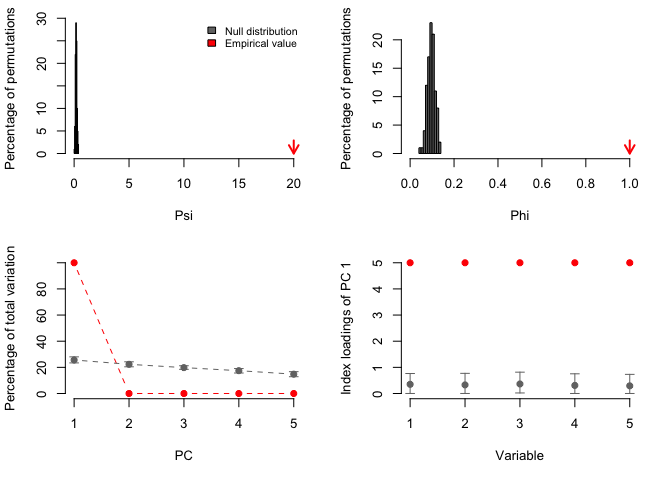
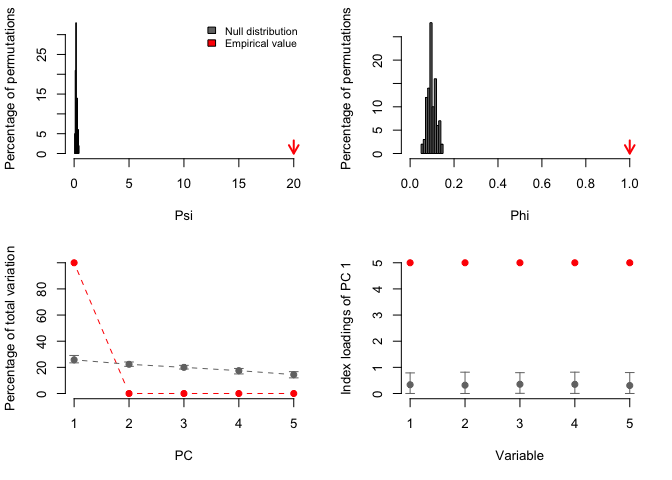
new commit

diff --git a/README.md b/README.md
@@ -24,7 +24,7 @@ statistics based on bootstrap replicates.
 ## Installation
 
 You can install the released and the development versions from
-[GitHub](https://github.com/) with:
+\[GitHub\] (<https://github.com/>) with:
 
 ``` r
 # install.packages("devtools")
@@ -52,8 +52,8 @@ result<-PCAtest(ex0, 100, 100, 0.05, varcorr=FALSE, counter=FALSE, plot=TRUE)
 #> 100 bootstrap replicates, 100 random permutations
 #> ========================================================
 #> 
-#> Empirical Psi = 0.1691, Max null Psi = 0.4490, Min null Psi = 0.0747, p-value = 0.66
-#> Empirical Phi = 0.0920, Max null Phi = 0.1498, Min null Phi = 0.0611, p-value = 0.66
+#> Empirical Psi = 0.1691, Max null Psi = 0.4298, Min null Psi = 0.0429, p-value = 0.61
+#> Empirical Phi = 0.0920, Max null Phi = 0.1466, Min null Phi = 0.0463, p-value = 0.61
 #> 
 #> PCA is not significant!
 ```
@@ -78,16 +78,16 @@ result<-PCAtest(ex05, 100, 100, 0.05, varcorr=FALSE, counter=FALSE, plot=TRUE)
 #> 100 bootstrap replicates, 100 random permutations
 #> ========================================================
 #> 
-#> Empirical Psi = 5.4655, Max null Psi = 0.5217, Min null Psi = 0.0423, p-value = 0
-#> Empirical Phi = 0.5228, Max null Phi = 0.1615, Min null Phi = 0.0460, p-value = 0
+#> Empirical Psi = 5.4655, Max null Psi = 0.5581, Min null Psi = 0.0550, p-value = 0
+#> Empirical Phi = 0.5228, Max null Phi = 0.1670, Min null Phi = 0.0524, p-value = 0
 #> 
-#> Empirical eigenvalue #1 = 3.08098, Max null eigenvalue = 1.51052, p-value = 0
-#> Empirical eigenvalue #2 = 0.63526, Max null eigenvalue = 1.23029, p-value = 1
-#> Empirical eigenvalue #3 = 0.52603, Max null eigenvalue = 1.10057, p-value = 1
-#> Empirical eigenvalue #4 = 0.43234, Max null eigenvalue = 0.98786, p-value = 1
-#> Empirical eigenvalue #5 = 0.3254, Max null eigenvalue = 0.88516, p-value = 1
+#> Empirical eigenvalue #1 = 3.08098, Max null eigenvalue = 1.54632, p-value = 0
+#> Empirical eigenvalue #2 = 0.63526, Max null eigenvalue = 1.30855, p-value = 1
+#> Empirical eigenvalue #3 = 0.52603, Max null eigenvalue = 1.10502, p-value = 1
+#> Empirical eigenvalue #4 = 0.43234, Max null eigenvalue = 0.99491, p-value = 1
+#> Empirical eigenvalue #5 = 0.3254, Max null eigenvalue = 0.84943, p-value = 1
 #> 
-#> PC 1 is significant and accounts for 61.6% (95%-CI:55.9-68.1) of the total variation
+#> PC 1 is significant and accounts for 61.6% (95%-CI:54-68.2) of the total variation
 #> 
 #> Variables 1, 2, 3, 4, and 5 have significant loadings on PC 1
 ```
@@ -114,14 +114,14 @@ result<-PCAtest(ex1, 100, 100, 0.05, varcorr=FALSE, counter=FALSE, plot=TRUE)
 #> 100 bootstrap replicates, 100 random permutations
 #> ========================================================
 #> 
-#> Empirical Psi = 20.0000, Max null Psi = 0.3706, Min null Psi = 0.0385, p-value = 0
-#> Empirical Phi = 1.0000, Max null Phi = 0.1361, Min null Phi = 0.0439, p-value = 0
+#> Empirical Psi = 20.0000, Max null Psi = 0.4075, Min null Psi = 0.0521, p-value = 0
+#> Empirical Phi = 1.0000, Max null Phi = 0.1427, Min null Phi = 0.0510, p-value = 0
 #> 
-#> Empirical eigenvalue #1 = 5, Max null eigenvalue = 1.42286, p-value = 0
-#> Empirical eigenvalue #2 = 0, Max null eigenvalue = 1.22777, p-value = 1
-#> Empirical eigenvalue #3 = 0, Max null eigenvalue = 1.09529, p-value = 1
-#> Empirical eigenvalue #4 = 0, Max null eigenvalue = 0.97961, p-value = 1
-#> Empirical eigenvalue #5 = 0, Max null eigenvalue = 0.88992, p-value = 1
+#> Empirical eigenvalue #1 = 5, Max null eigenvalue = 1.48414, p-value = 0
+#> Empirical eigenvalue #2 = 0, Max null eigenvalue = 1.22265, p-value = 1
+#> Empirical eigenvalue #3 = 0, Max null eigenvalue = 1.08145, p-value = 1
+#> Empirical eigenvalue #4 = 0, Max null eigenvalue = 0.97183, p-value = 1
+#> Empirical eigenvalue #5 = 0, Max null eigenvalue = 0.85768, p-value = 1
 #> 
 #> PC 1 is significant and accounts for 100% (95%-CI:100-100) of the total variation
 #> 
@@ -149,18 +149,18 @@ result<-PCAtest(ants, 100, 100, 0.05, varcorr=FALSE, counter=FALSE, plot=TRUE)
 #> 100 bootstrap replicates, 100 random permutations
 #> ========================================================
 #> 
-#> Empirical Psi = 10.9186, Max null Psi = 3.2501, Min null Psi = 0.7205, p-value = 0
-#> Empirical Phi = 0.5099, Max null Phi = 0.2782, Min null Phi = 0.1310, p-value = 0
+#> Empirical Psi = 10.9186, Max null Psi = 2.7882, Min null Psi = 0.7678, p-value = 0
+#> Empirical Phi = 0.5099, Max null Phi = 0.2577, Min null Phi = 0.1352, p-value = 0
 #> 
-#> Empirical eigenvalue #1 = 3.84712, Max null eigenvalue = 2.42332, p-value = 0
-#> Empirical eigenvalue #2 = 1.52017, Max null eigenvalue = 1.7285, p-value = 0.13
-#> Empirical eigenvalue #3 = 0.70634, Max null eigenvalue = 1.37032, p-value = 1
-#> Empirical eigenvalue #4 = 0.41356, Max null eigenvalue = 1.15618, p-value = 1
-#> Empirical eigenvalue #5 = 0.34001, Max null eigenvalue = 0.96373, p-value = 1
-#> Empirical eigenvalue #6 = 0.14515, Max null eigenvalue = 0.76604, p-value = 1
-#> Empirical eigenvalue #7 = 0.02765, Max null eigenvalue = 0.5805, p-value = 1
+#> Empirical eigenvalue #1 = 3.84712, Max null eigenvalue = 2.30242, p-value = 0
+#> Empirical eigenvalue #2 = 1.52017, Max null eigenvalue = 1.81208, p-value = 0.14
+#> Empirical eigenvalue #3 = 0.70634, Max null eigenvalue = 1.39199, p-value = 1
+#> Empirical eigenvalue #4 = 0.41356, Max null eigenvalue = 1.13862, p-value = 1
+#> Empirical eigenvalue #5 = 0.34001, Max null eigenvalue = 0.95282, p-value = 1
+#> Empirical eigenvalue #6 = 0.14515, Max null eigenvalue = 0.74811, p-value = 1
+#> Empirical eigenvalue #7 = 0.02765, Max null eigenvalue = 0.57806, p-value = 1
 #> 
-#> PC 1 is significant and accounts for 55% (95%-CI:39-64.8) of the total variation
+#> PC 1 is significant and accounts for 55% (95%-CI:43.1-64.7) of the total variation
 #> 
 #> Variables 1, 2, 3, 4, 5, and 7 have significant loadings on PC 1
 ```
